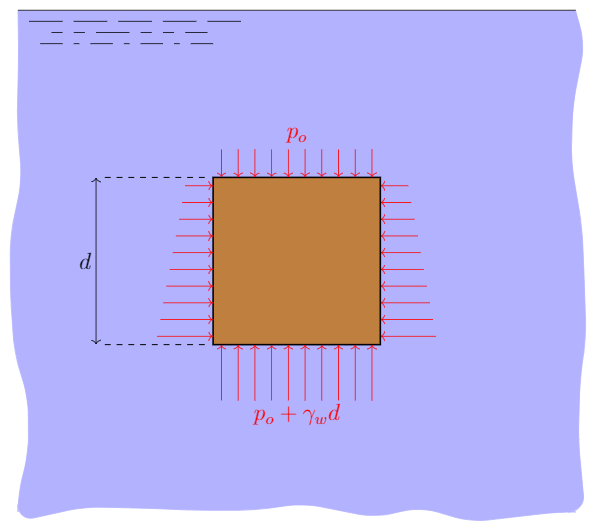
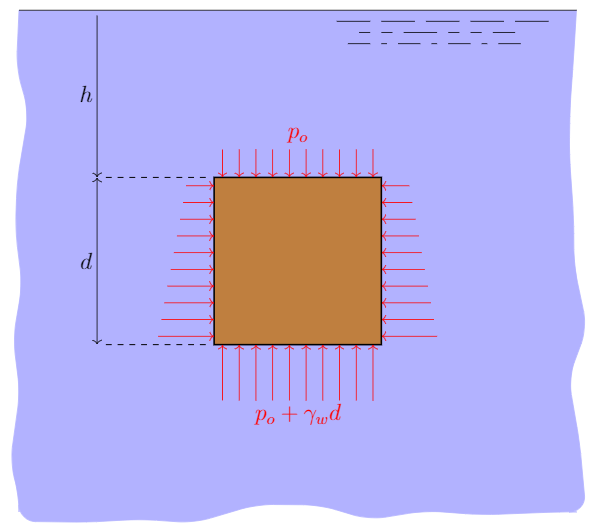
buoyancy

diff --git a/teaching/Applied-Fluids/Notes/Buoyancy.md b/teaching/Applied-Fluids/Notes/Buoyancy.md
@@ -24,21 +24,27 @@ $$
 
 ## The nature of buoyancy
 
-An object submerged in a fluid experiences an upward buoyant force.  
-The buoyant force is a direct consequence of the pressure elevation relation.
- In order to see how this works let us examine the pressure distribution from a fluid acting on a fully submerged cube.  In the figure below the cube is shown head-on (so the front and back faces are not shown but they have the same behavior as the sides).  
-
- Let us assume that the top of the cube is located at a distance $h$ from the water's surface.  The pressure on the top surface of the cube will be $p_0=\gamma_w h$.  The pressure acting on the top surface results in a net downward force of magnitude $F_{\rm top}=\gamma_w h d^2$.  The bottom of the cube is located at a depth $d+h$.  The pressure on the bottom surface is therefore $\gamma_w (d+h)$ and results in an upward force $F_{\rm bottom}=\gamma_w (h+d) d^2$.  The net vertical force on the cube is therefore
-
- $$
- F_{\rm net}=F_{\rm bottom}-F_{\rm top}=\gamma_w (h+d) d^2-\gamma_w h d^2=\gamma_w d^3
- $$
-
+Any object submerged in a fluid experiences an upward buoyant force.  The buoyant force is a direct consequence of the pressure-elevation relation that was developed earlier.  To see how this comes about let us consider a cube with side length $d$ submerged in water to a depth $h$.  In the figure below the cube is shown head-on (so the front and back faces are not shown but they have the same pressure distribution as the left and right sides).  
 
 <div class="photo" style="width: 500px;">
   <img src="img\buoyancy0.png" alt="">
   <p>  </p>
 </div>
+
+ We now calculate the pressure distribution and corresponding force acting on each side of the cube.  On the top surface the pressure is $p_0=\gamma_w h$ and produces a downward force of magnitude $F_{\rm top}=\gamma_w h d^2$ on the top face ($d^2$ is the area of the top of the cube).
+
+ The bottom of the cube is located at a depth $d+h$.  The pressure on the bottom surface is therefore $\gamma_w (d+h)$ and produces an upward force $F_{\rm bottom}=\gamma_w (h+d) d^2$.  The net vertical force on the cube is therefore
+
+ $$
+ F_{\rm net}&=F_{\rm bottom}-F_{\rm top}=\gamma_w (h+d) d^2-\gamma_w h d^2\nonumber\\
+ &=\gamma_w d^3
+ $$
+
+Since the pressure distribution on the left and right side of the cube are the same there is no net horizontal force.  The same is true for the front and back faces which aren't shown.  So the only remaining force is the vertical one.  
+
+So for the case of the cube submerged in water the buoyance force is equal to the product of the specific weight of water, $\gamma_w$, times the volume of the cube, $d^3$.
+
+Using calculus one can generalize this to any submerged object of arbitrary shape.  It turns out that the buoyant force is always vertically upward and proportional to the volume of the object ($i.e.$ the displaced volume of water).  
 
 
 ## Buoyant force
@@ -49,6 +55,7 @@ $$
 \begin{align}
 \textrm{Buoyant force}&=\textrm{Specific weight of fluid}\times\textrm{Displaced volume of fluid}\nonumber\\
 F_b&=\gamma_f\,\times\, V_d
+\label{eq:buoyancy}
 \end{align}
 $$
 
@@ -104,7 +111,7 @@ The weight of the Styrofoam cube is $$ w=\gamma_{\rm Styrofoam}\,\times\, V = 0.
 
 
 
-The buoyancy force is the same for Styrofoam and steel! The buoyancy force depends on the specific weight of the fluid (in this case water) and the volume displaced by the object (see eq.~\ref{eq:buoyancy}. It doesn\'t matter what the object is made of!
+The buoyancy force is the same for Styrofoam and steel! The buoyancy force depends on the specific weight of the fluid (in this case water) and the volume displaced by the object (see eq.~\ref{eq:buoyancy}). It doesn\'t matter what the object is made of!
 
 
 
